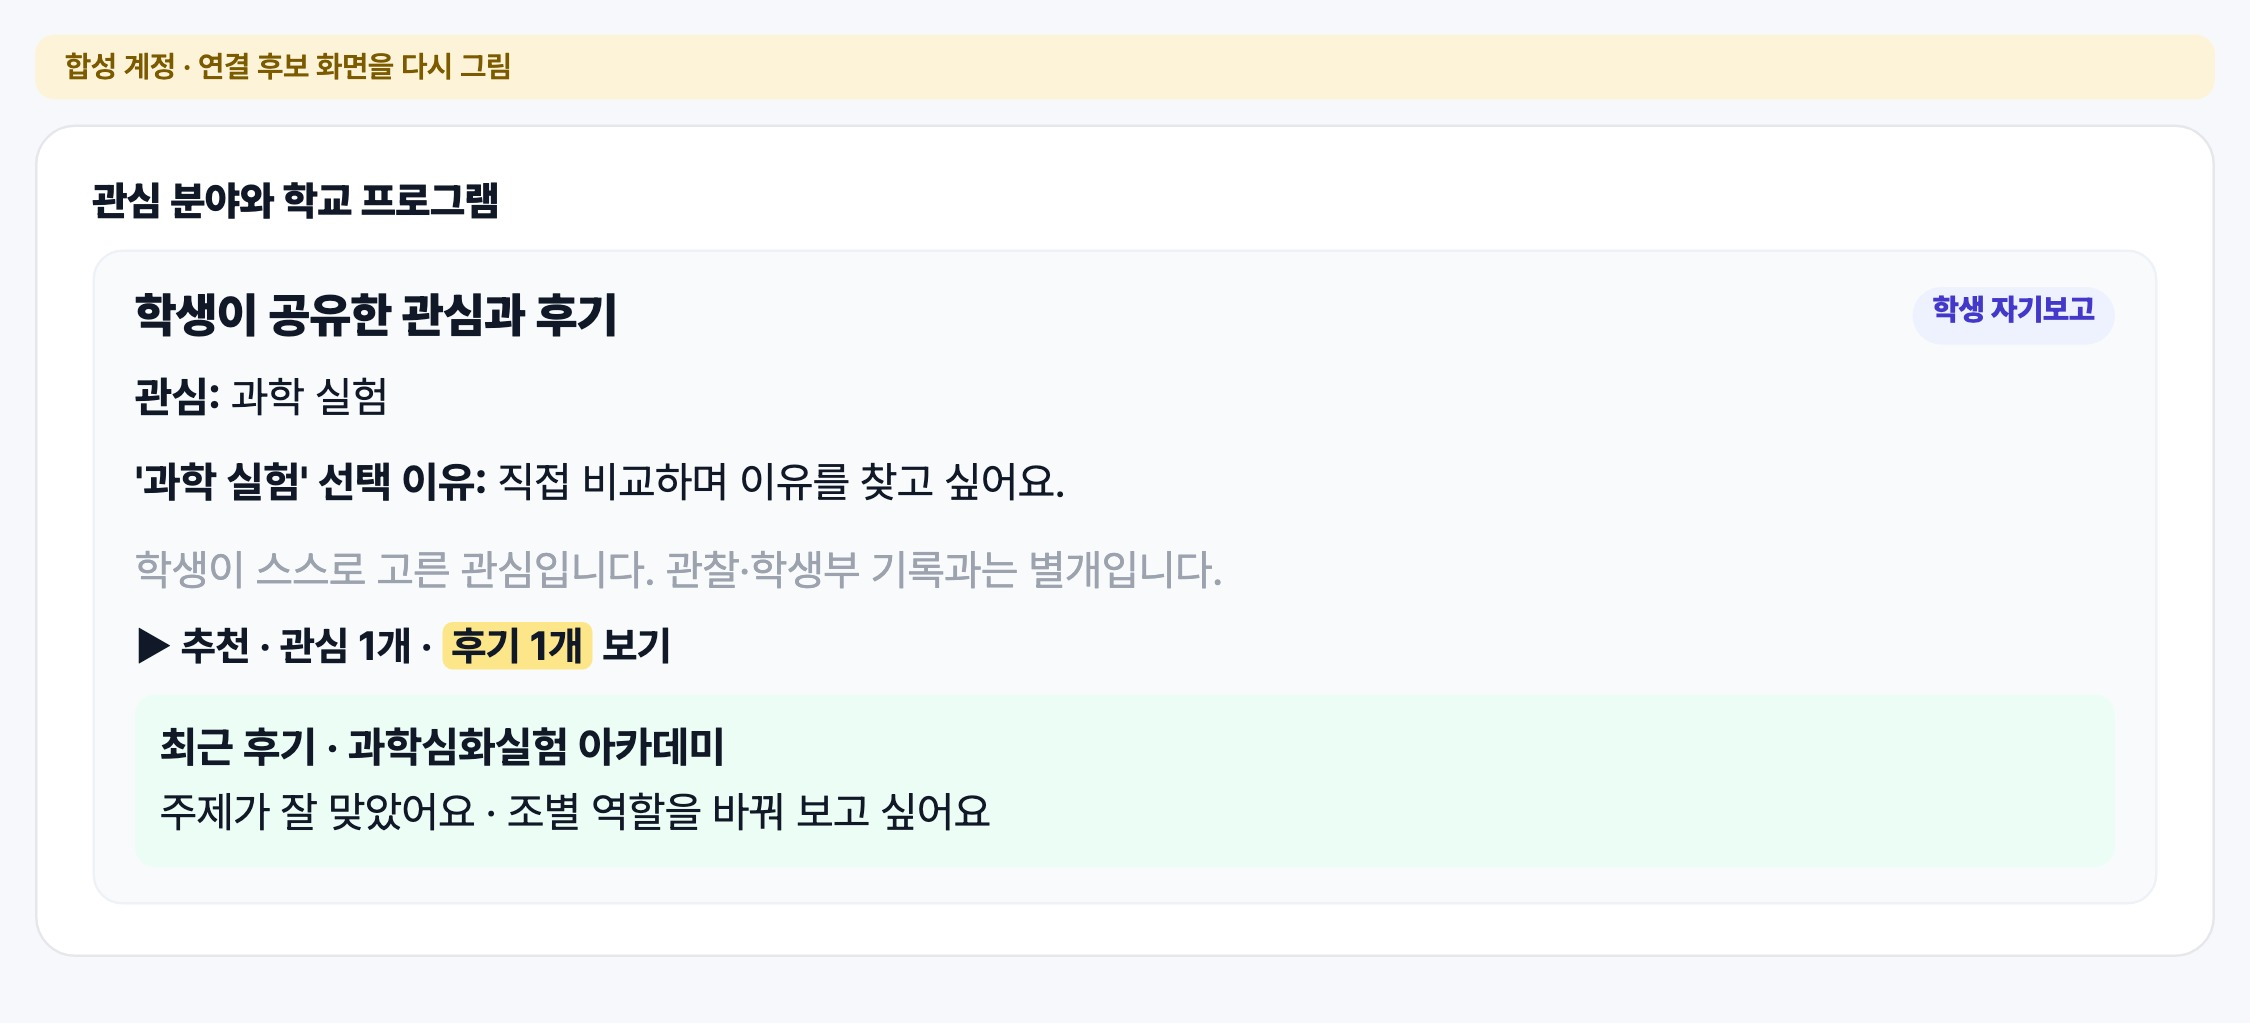
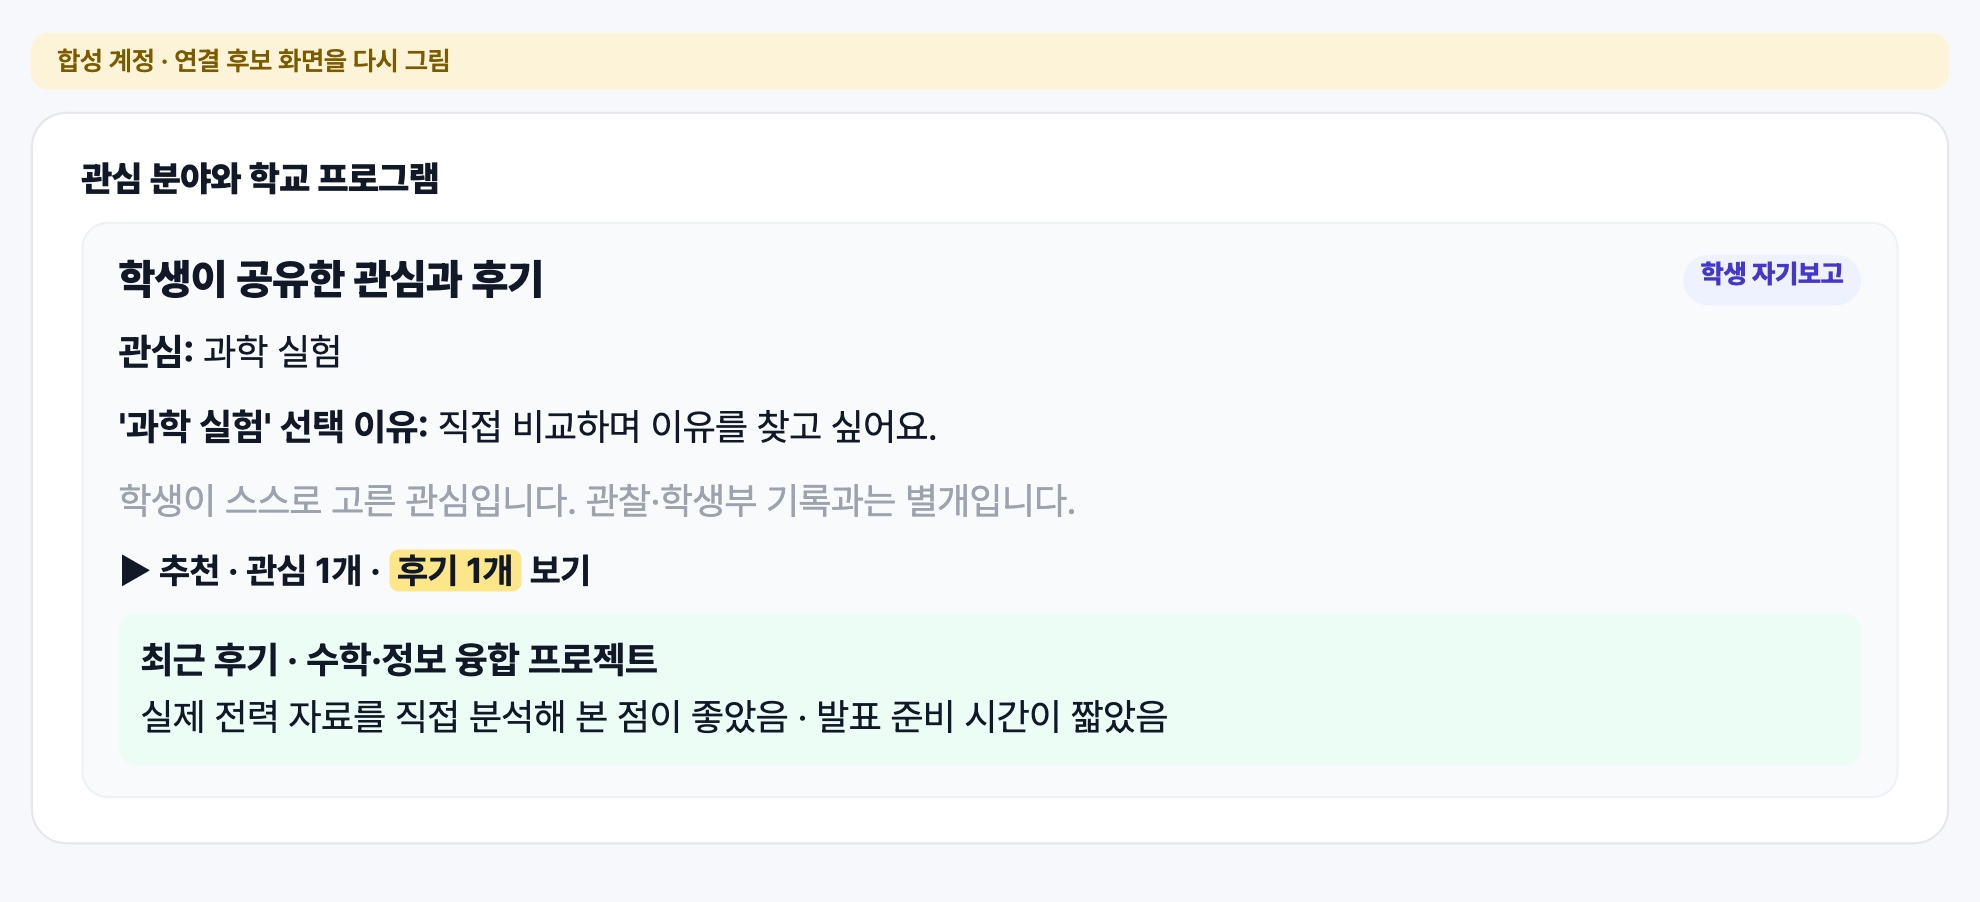
2장 하나씩 나타나기, 3장 한 프로그램 흐름, 5장 운영 계획과 학생 설문 장면

diff --git a/index.html b/index.html
@@ -240,6 +240,9 @@ a.go.ghost{background:#fff;color:var(--blue);border:2px solid #c9d6fb;box-shadow
 #s12 .hero{width:760px;border-radius:36px;background:radial-gradient(circle at 50% 45%,#fff7d6 0%,#fff 60%);border:3px solid #dbe5fd;box-shadow:0 26px 70px rgba(29,78,216,.14)}
 #s12 .t1{margin-top:44px;font-size:44px;font-weight:800;color:var(--sub);letter-spacing:-.01em}
 #s12 .t2{margin-top:6px;font-size:120px;font-weight:900;letter-spacing:-.035em;line-height:1.1;background:linear-gradient(90deg,#1d4ed8 0%,#4f46e5 45%,#7c3aed 75%,#db2777 100%);-webkit-background-clip:text;background-clip:text;color:transparent;display:inline-block;padding:0 12px 8px}
+/* 클릭할 때마다 하나씩 나타나는 항목 */
+.slide .step{opacity:0;transform:translateY(34px) scale(.94);transition:opacity .5s ease,transform .6s cubic-bezier(.2,.9,.3,1.25)}
+.slide .step.in{opacity:1;transform:none}
 </style>
 </head>
 <body>
@@ -273,10 +276,10 @@ a.go.ghost{background:#fff;color:var(--blue);border:2px solid #c9d6fb;box-shadow
   <div class="eyebrow rise">학교의 고민</div>
   <h2 class="rise" style="--d:.1">같은 내용을 여러 번 쓰고, 해마다 처음부터 준비합니다</h2>
   <div class="roles">
-    <div class="card role pop" style="--d:.25"><div class="bubble">계획서 · 공문 · 안내문 · 기록,<br>같은 내용을 또 써요</div><img class="mong bob" src="assets/mong/ttukttak.png" alt=""><div class="who2">프로그램 담당</div></div>
-    <div class="card role pop" style="--d:.37"><div class="bubble">이 학생 관심에 맞는<br>프로그램이 어디 있지?</div><img class="mong bob" style="animation-delay:-.8s" src="assets/mong/doran.png" alt=""><div class="who2">담임</div></div>
-    <div class="card role pop" style="--d:.49"><div class="bubble">여러 프로그램 기록을<br>반별로 나누고 학번을 대조해요</div><img class="mong bob" style="animation-delay:-1.4s" src="assets/mong/chorong.png" alt=""><div class="who2">생기부 담당</div></div>
-    <div class="card role school pop" style="--d:.61"><div class="bubble">좋은 프로그램도<br>해마다 처음부터</div><img class="mong bob" style="animation-delay:-2s" src="assets/mong/mongsil.png" alt=""><div class="who2">학교</div></div>
+    <div class="card role step"><div class="bubble">계획서 · 공문 · 안내문 · 기록,<br>같은 내용을 또 써요</div><img class="mong bob" src="assets/mong/ttukttak.png" alt=""><div class="who2">프로그램 담당</div></div>
+    <div class="card role step"><div class="bubble">이 학생 관심에 맞는<br>프로그램이 어디 있지?</div><img class="mong bob" style="animation-delay:-.8s" src="assets/mong/doran.png" alt=""><div class="who2">담임</div></div>
+    <div class="card role step"><div class="bubble">여러 프로그램 기록을<br>반별로 나누고 학번을 대조해요</div><img class="mong bob" style="animation-delay:-1.4s" src="assets/mong/chorong.png" alt=""><div class="who2">생기부 담당</div></div>
+    <div class="card role school step"><div class="bubble">좋은 프로그램도<br>해마다 처음부터</div><img class="mong bob" style="animation-delay:-2s" src="assets/mong/mongsil.png" alt=""><div class="who2">학교</div></div>
   </div>
 </section>
 
@@ -307,7 +310,7 @@ a.go.ghost{background:#fff;color:var(--blue);border:2px solid #c9d6fb;box-shadow
 <section class="slide" id="s5" data-sec="25" data-menu="record">
   <div class="top">
     <div><span class="role-chip pro rise"><img class="mong" src="assets/mong/arong.png" alt="">프로그램 담당 · 활동 후 정리<span class="star">★</span></span>
-      <h2 class="rise" style="--d:.1">근거로 쓴 초안, 확인한 것만 학교 양식으로</h2></div>
+      <h2 class="rise" style="--d:.1">운영 계획과 학생 설문에서 시작해, 확인한 초안만 학교 양식으로</h2></div>
     <div class="demo-btns rise" style="--d:.2"><a class="go" data-pro="#/programs" target="_blank" rel="noopener">▶ 직접 시연 · 프로그램 열기</a></div>
   </div>
   <div class="mwrap"><div class="mlist"></div><div class="mpanel"></div></div>

diff --git a/deck-data.js b/deck-data.js
@@ -36,7 +36,7 @@ window.MENUS = {
     "tag": "시험 중",
     "type": "shot",
     "img": "assets/m/n2.jpg",
-    "head": "각 부서가 등록한 여러 프로그램 가운데 학생에게 맞는 것을 골라 담음",
+    "head": "여러 부서 프로그램 가운데 「수학·정보 융합 프로젝트」를 골라 담음",
     "chips": [
      [
       "hr",
@@ -60,13 +60,13 @@ window.MENUS = {
     "mong": "ttukttak",
     "type": "shot",
     "live": true,
-    "img": "assets/m/hj3.jpg",
-    "head": "회차마다 출석과 관찰이 한곳에",
+    "img": "assets/m/n10.jpg",
+    "head": "같은 프로그램, 회차마다 출석과 관찰 메모를 한 화면에",
     "chips": [
      [
       "pr",
       "담당",
-      "출석부가 결과 보고와 기록 근거로"
+      "관찰 메모가 그대로 학생별 초안의 근거로"
      ]
     ],
     "wow": [
@@ -80,7 +80,7 @@ window.MENUS = {
     "mong": "arong",
     "type": "q",
     "live": true,
-    "head": "짧은 후기가 내년 운영의 근거로",
+    "head": "같은 프로그램의 짧은 후기가 개선의 근거로",
     "q": {
      "small": "학생 후기 설문 7번 문항",
      "text": "프로그램에서 좋았던 점과 개선하면 좋을 점을 적어 주세요.",
@@ -124,7 +124,7 @@ window.MENUS = {
     "tag": "시험 중",
     "type": "shot",
     "img": "assets/m/n3.jpg",
-    "head": "참여 뒤 담임 화면에 ‘후기 1개’가 더해짐",
+    "head": "참여 뒤 담임 화면에 같은 프로그램 후기가 더해짐",
     "chips": [
      [
       "hr",
@@ -143,7 +143,7 @@ window.MENUS = {
     "mong": "chorong",
     "type": "text",
     "live": true,
-    "head": "관찰과 확인한 산출물로 쓴 학생별 초안",
+    "head": "같은 프로그램의 관찰과 확인한 산출물로 쓴 학생별 초안",
     "lab": "담당교사 AI 초안 · 진로활동",
     "labsmall": "한 바퀴 시연(가상 학생) · 나이스 604바이트",
     "text": "공간별 전력 사용량을 <mark>총량으로 비교해 점심시간 일괄 소등을 생각</mark>했으나, 좌석 1개당·시간대별로 다시 계산하라는 <mark>피드백을 받고 비율 비교로 분석 방법을 바꾼 이유</mark>를 짝에게 설명함. 다시 계산한 결과 정보실은 수업 시간에 높고 점심시간에는 도서관과 비슷하여, 6~7교시 빈 정보실의 <mark>모니터 대기전력을 줄이는 규칙으로 결론을 바꿈</mark>. 발표에서 그래프 두 개로 결론이 바뀐 과정을 비교해 보이고, 실제 대기전력을 측정할 방법을 다음 질문으로 제시함.",
@@ -276,6 +276,31 @@ window.MENUS = {
  "record": {
   "dur": 7,
   "items": [
+   {
+    "label": "운영 계획 + 학생 설문",
+    "sub": "학생별 자료 모으기",
+    "mong": "mongsil",
+    "type": "shot",
+    "tag": "시험 중",
+    "img": "assets/m/n9.jpg",
+    "head": "운영 계획 · 학생 설문 · 선생님이 확인한 기록이 학생별로 한 화면에",
+    "wow": [
+     "계획서 · 설문 · 관찰 메모를 따로 열어 학생마다 정리",
+     "학생을 고르면 계획 · 설문 · 확인한 기록이 한 화면에"
+    ],
+    "chips": [
+     [
+      "pr",
+      "담당",
+      "설계와 운영 중에 쌓인 자료에서 바로 시작"
+     ],
+     [
+      "sc",
+      "학교",
+      "설문은 참고, 초안의 근거는 선생님이 확인한 관찰 · 산출물"
+     ]
+    ]
+   },
    {
     "sub": "근거로 쓴 문장",
     "mong": "arong",

diff --git a/deck.js b/deck.js
@@ -150,7 +150,17 @@
     if (!t0 && i > 0) t0 = Date.now();
     if (menuState[target.id]) { select(target.id, 0); restart(target.id); }
   }
-  function go(d) { show(cur + d); }
+  // 장 안의 .step 항목은 넘길 때마다 하나씩 나타난다(앞으로 가면 하나 더, 뒤로 가면 하나 숨김).
+  function steps(i) { return [].slice.call(slides[i].querySelectorAll(".step")); }
+  function go(d) {
+    var st = steps(cur);
+    if (d > 0) { var next = st.filter(function (x) { return !x.classList.contains("in"); })[0]; if (next) { next.classList.add("in"); return; } }
+    if (d < 0) { var shown = st.filter(function (x) { return x.classList.contains("in"); }); if (shown.length) { shown[shown.length - 1].classList.remove("in"); return; } }
+    var to = Math.max(0, Math.min(slides.length - 1, cur + d));
+    if (to === cur) return;
+    steps(to).forEach(function (x) { x.classList.toggle("in", d < 0); });
+    show(to);
+  }
   document.querySelectorAll("#nav [data-go]").forEach(function (el) { el.addEventListener("click", function () { go(+el.dataset.go); }); });
   addEventListener("keydown", function (e) {
     if (lb.classList.contains("show")) { if (e.key === "Escape" || e.key === " " || e.key === "Enter") lb.classList.remove("show"); return; }
